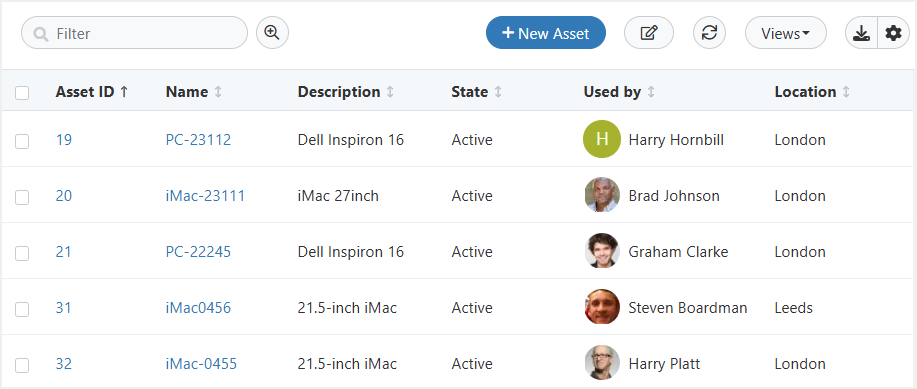
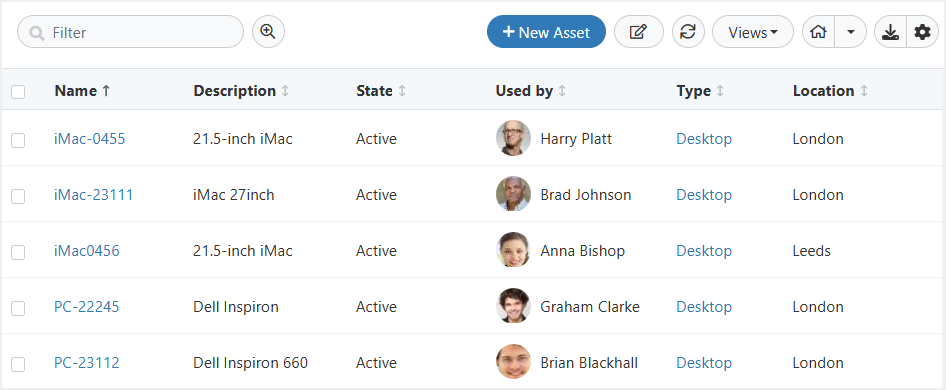
Asset Home View and image updates
* Added new Home View description
* Added new Home View image
* Improved formatting of the software asset management page.
* Updated Asset Details image

diff --git a/servicemanager-user-guide/asset-management/software-asset-management.md b/servicemanager-user-guide/asset-management/software-asset-management.md
@@ -1,19 +1,24 @@
 # Software Asset Management
+
 Import and view the installed software on your devices. Ratify installed software against license records held across all your vendors.
 
 ## Roles
+
 * **Software Asset Management User.** Needed to view the Software Asset Management views.
 * **Asset Management Admin.** Needed to enable the Installed Software accordion view.
 
-
 ## Import installed software
+
 You can import installed software from devices from third-party discovery solutions in two ways:
+
 * Using the [Hornbill Asset Import utility](/data-imports-guide/assets/overview).
 * Directly from the Hornbill ITOM app using the scheduled [Asset Import job](/itom-user-guide/jobs/job-queue#creating-new-jobs)
     Do this for managed devices once discovered through the Hornbill ITOM app. (ITOM is a subscribable app, separate to the Service Manager app.)
 
 ## View installed software
+
 Here you can see software installed on devices in your estate/ Once installed software is imported against your hardware assets, the list will show all software with the following:
+
 * Vendor
 * Product
 * Version
@@ -24,6 +29,7 @@ Here you can see software installed on devices in your estate/ Once installed so
 Use the **Vendor** dropdown to filter the installed software list to see only that vendor's products.
 
 ### View which devices software is installed on
+
 Highlight a software product in the list to open the right-hand side panel, which shows:
 
 * Product Information
@@ -31,50 +37,60 @@ Highlight a software product in the list to open the right-hand side panel, whic
 * Matching Software Assets. Any existing asset records of type *Software Asset* that match the software product.
 
 ### Add corresponding software license product
+
 If you don't hold a corresponding software asset record for the installed software, you can manually add one. Hover over the Actions column for the corresponding software product in the list, and click **+ New Asset**.
 
-
 ## View installed software per device
+
 For asset types created under the Computer System or Mobile Device classes, an asset administrator can enable the Installed Software Information accordion section from the Manage Asset Types menu option. This exposes the Installed Software Information accordion section on any asset records of that asset type.
 
 Data displayed:
+
 * Software Product
 * Vendor
 * Version
 * When Installed
 
 ## Manage vendors, products, and versions
+
 For software assets, you can include the attributes for vendor, product, and version. To maintain an accurate set of data for each, here you can define lists of the vendors you work with, the products they provide, and any different versions that are available for each product.
 
 Once the lists are defined, these are presented when adding an asset of the Software class and where you have configured the Software Asset Type to use the Vendor, Product and or Version attributes.
 
 ## Adding new vendors, products, and versions
+
 From the Manage Asset Types menu option, click the **+** option on the Software Class title bar.
 
 ### Configuration options - Vendor
+
 From the Vendor tab:
+
 * New Vendor. Add the vendor name.
 * Alias. Add an alias the vendor may also be known as/
 
 Click **Create** add the vendor to the list of defined vendors.
 
 ### Configuration options - Product
+
 From the Product tab:
+
 * Vendor. Select the vendor to which the new product relates.
 * New Product: Add the name of the new product.
 
 Click **Create** to add the product to the list of defined products.
 
 ### Configuration options - Version
+
 From the Version tab:
+
 * Vendor. Select the vendor to which the new version of a product relates.
 * Product. From the vendor's products, select the product to which the new version relates.
 * New Version. Add the name of the new version.
 
 Click **Create** to add the version to the list of defined versions for the specific product.
 
-
 ### Edit and delete vendors, products, and versions
+
 * Edit. Click the pencil icon next to the item you wish to edit.
 * Delete. Click the **Delete** button (trash can icon) next to the item you wish to delete. If assets are currently linked to the version, product, or vendor, you will not be able to delete the item.
 

diff --git a/servicemanager-user-guide/asset-management/asset-list.md b/servicemanager-user-guide/asset-management/asset-list.md
@@ -137,6 +137,12 @@ You can define and store a number of different views of the assets.
 
 Now you can quickly access particular sets of important data by selecting from your list of defined views.
 
+## Home view
+
+![Home view](/_books/servicemanager-user-guide/asset-management/images/asset-home-view.png)
+
+The Home view defines which area of the assets is displayed when you first open assets.  The drown lets you set the current view as the Home view.  Clicking on the Home icon will take you back to this view at any time. This option is available from any list and on the dashboard.
+
 ## Exporting the asset list
 
 Export the contents of the asset list to CSV. Choose which of the available columns on the list you wish to export (the available options are specific to the asset class).

diff --git a/servicemanager-user-guide/asset-management/asset-details.md b/servicemanager-user-guide/asset-management/asset-details.md
@@ -89,7 +89,7 @@ Tags provide a way to specify keywords or attributes on an asset for easy search
 
 Customizable actions for an asset can be added through what is known as custom buttons.  The availability of custom buttons may vary on each asset.
 
-Asset administrators can add [custom buttons](/esp-config/customize/custom-buttons) to asset forms that open a URL, displays a popup, or runs an Auto Task workflow. 
+Asset administrators can add [custom buttons](/esp-config/customize/custom-buttons) to asset records that open a URL, displays a popup, or runs an Auto Task workflow. s
 
 ![Custom buttons on an asset record](/_books/servicemanager-user-guide/asset-management/images/asset-record-custom-buttons.png)
 
